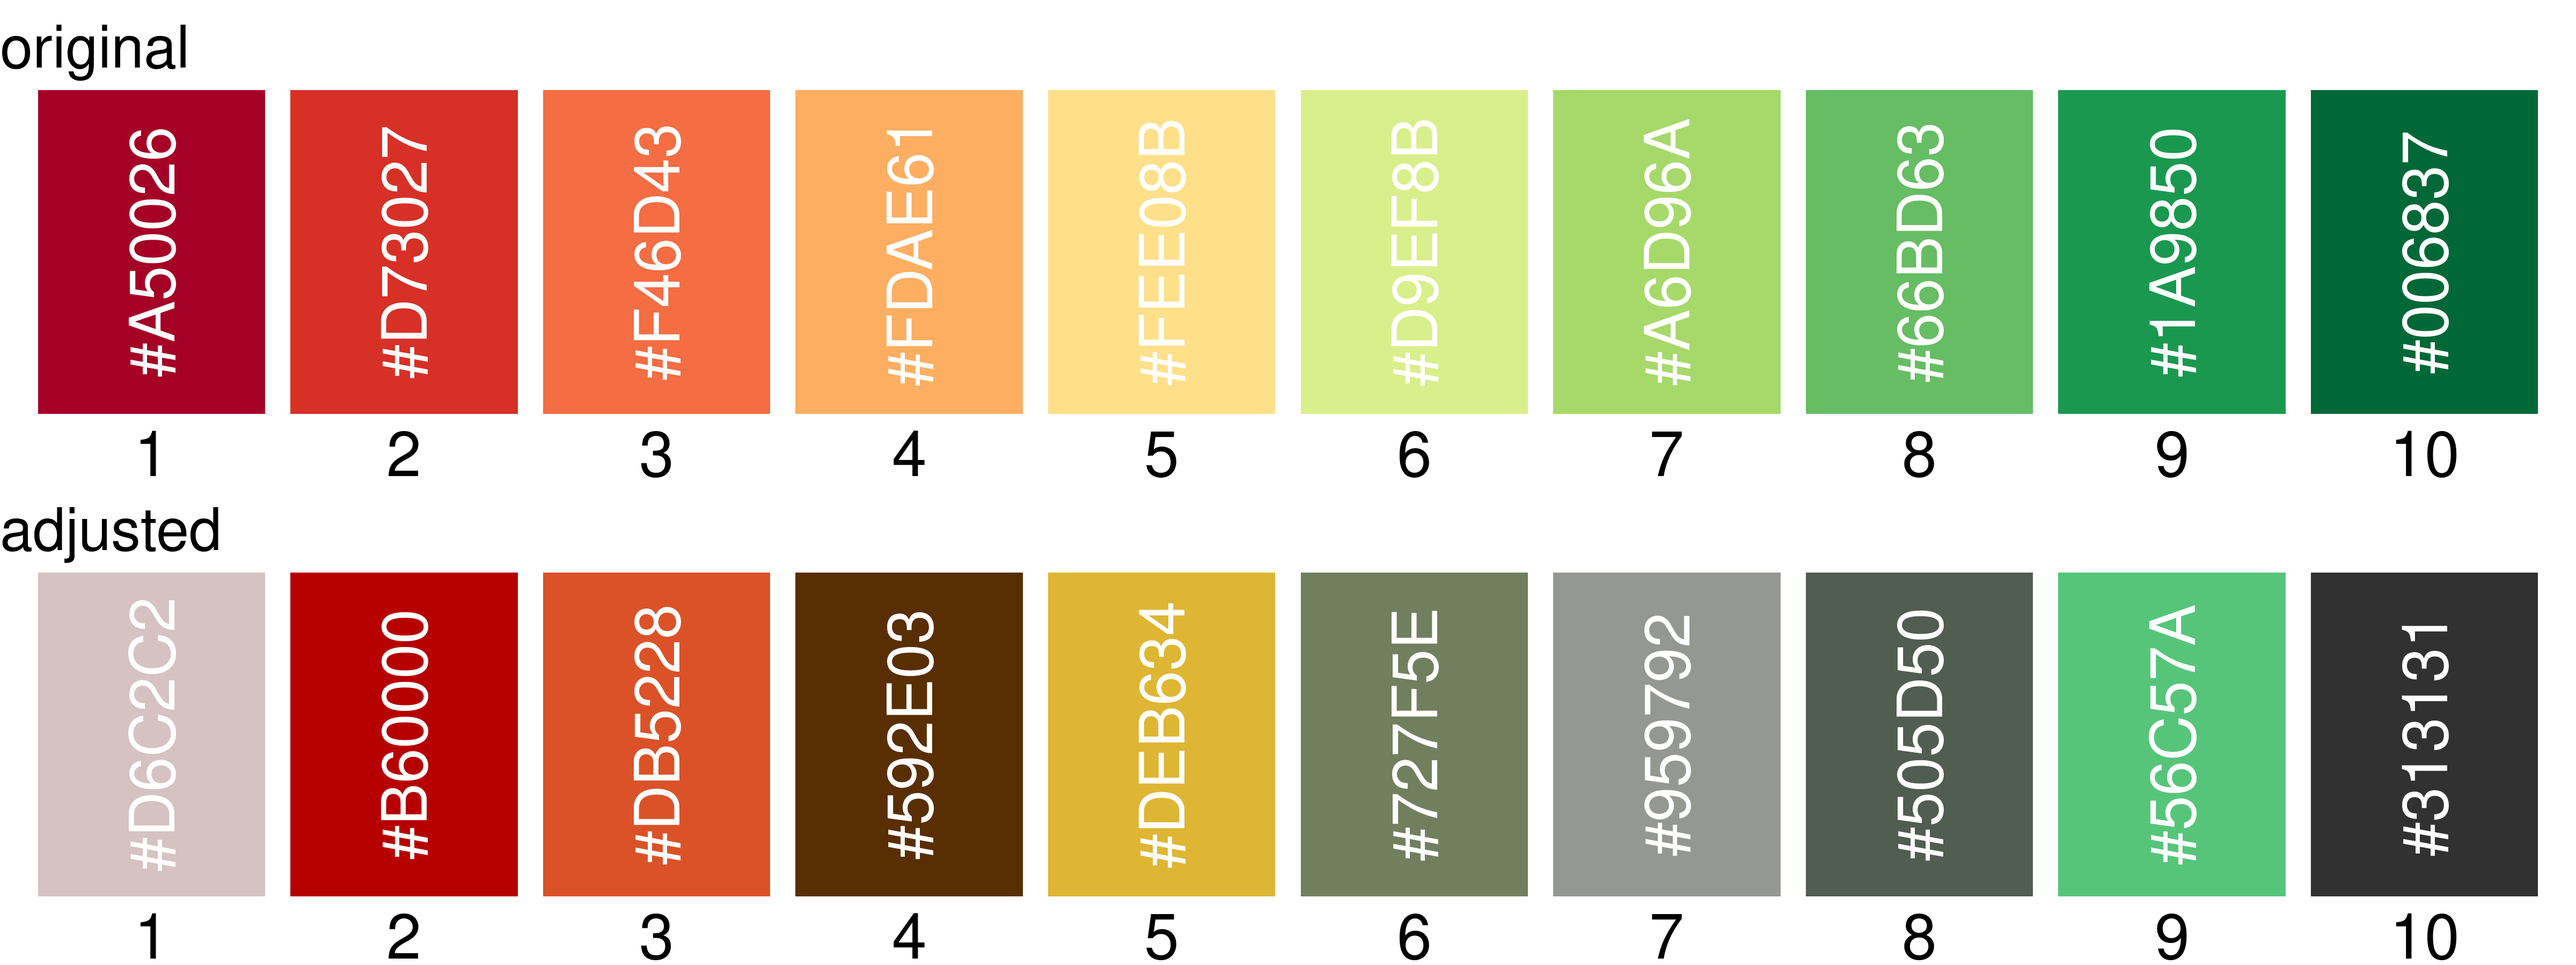
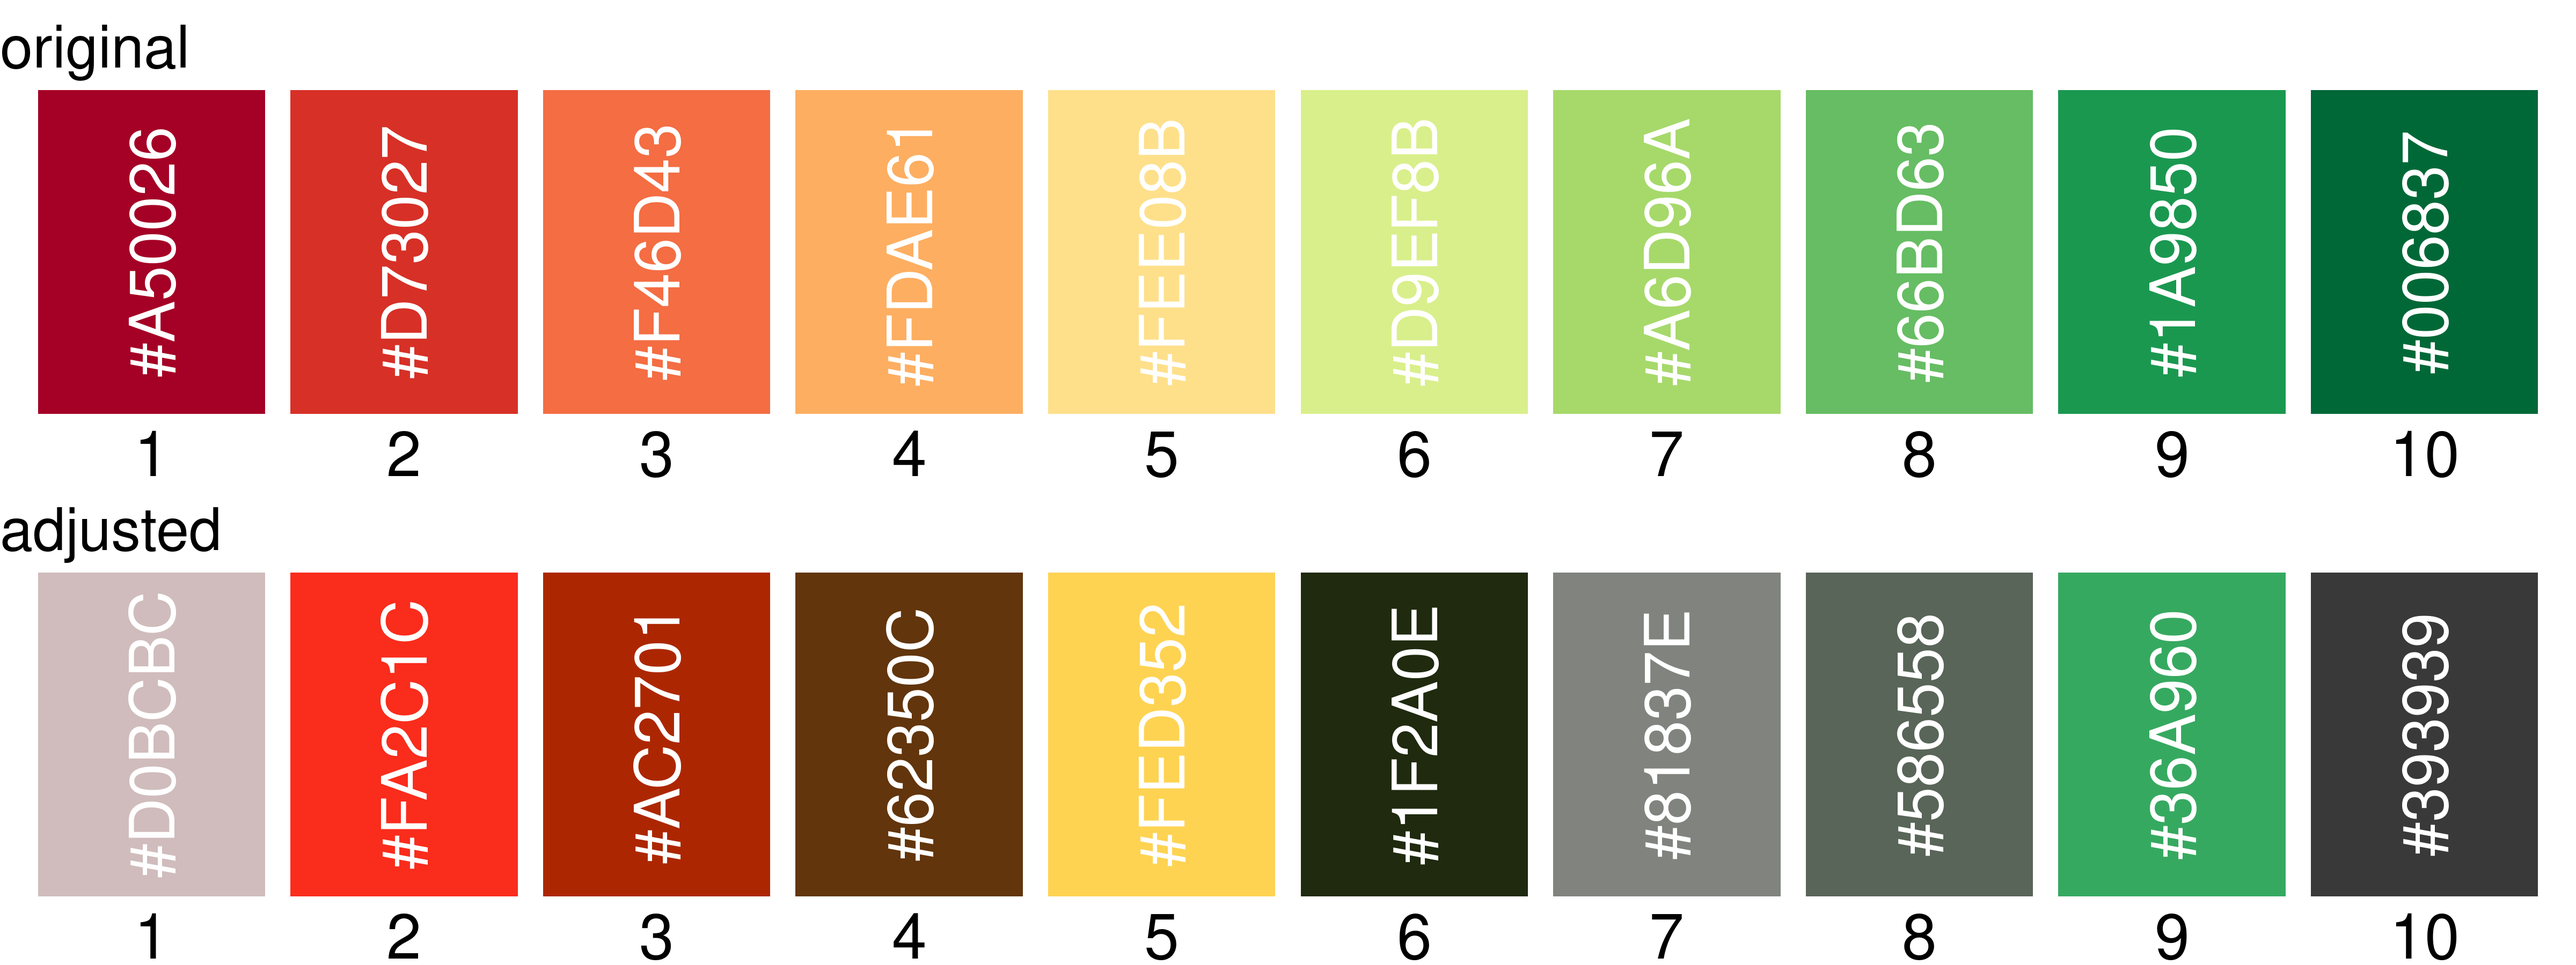
update readme

diff --git a/README.md b/README.md
@@ -47,19 +47,15 @@ The `spruce_colors()` function calculates the pairwise distance between
 colors in the palette, and identifies pairs of colors that are very
 similar. The difference threshold used to identify similar colors can be
 modified with the `difference` parameter, with higher values resulting
-in more distinct colors. The color palette is optimized by modifying the
-color attribute specified with the `adjust` parameter.
+in colors that are more distinct. How colors are modified can be
+controlled using the `property` parameter.
 
-In the example below, color lightness is automatically adjusted for sets
-of colors that do not meet the difference threshold.
+By default, new colors are interpolated based on the other colors on the
+palette.
 
 ``` r
 new_clrs <- clrs |>
-  spruce_colors(
-    difference = 15,
-    property = "lightness",
-  )
-#> ℹ The minimum color difference for the adjusted palette is 14.3, increase `maxit` to improve optimization.
+  spruce_colors(difference = 10)
 
 plot_colors(new_clrs)
 ```
@@ -68,8 +64,10 @@ plot_colors(new_clrs)
 
 <br>
 
-The colors can be made more distinct by also modifying the hue and/or
-increasing the difference threshold.
+One or more color properties can also be specified to limit how the
+colors are adjusted. If the example below lightness is first adjusted,
+if the resulting colors still do not meet the difference threshold, the
+hue is adjusted.
 
 ``` r
 new_clrs <- clrs |>
@@ -121,7 +119,7 @@ plt2 <- plt +
   ggtitle("adjusted")
 
 plot_grid(plt1, plt2, nrow = 1)
-#> ℹ The minimum color difference for the adjusted palette is 23.1, increase `maxit` to improve optimization.
+#> ℹ The minimum color difference for the adjusted palette is 23, increase `maxit` to improve optimization.
 ```
 
 <img src="man/figures/README-unnamed-chunk-5-1.png" width="100%" />
@@ -163,7 +161,7 @@ new_clrs <- clrs |>
     property   = c("lightness", "saturation"),
     filter     = "deutan"
   )
-#> ℹ The minimum color difference for the adjusted palette is 14, increase `maxit` to improve optimization.
+#> ℹ The minimum color difference for the adjusted palette is 12.9, increase `maxit` to improve optimization.
 
 # Plot adjusted colors without filter
 plt1 <- clrs |>
